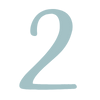
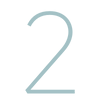
数字の画像を差し替えた

Changed region(s): [[0.18, 0.09, 0.78, 0.96]]

diff --git a/src/components/templates/Login.tsx b/src/components/templates/Login.tsx
@@ -109,7 +109,7 @@ function Login() {
       </section>
       <section>
         <h2 className="mt-10 mb-2 flex justify-center text-3xl font-bold">
-          かんたん！３ステップ
+          操作はこれだけ！
         </h2>
         <div className="m-auto max-w-5xl">
           <div className="md:grid md:grid-cols-3 md:justify-between">

diff --git a/src/components/atoms/Description.tsx b/src/components/atoms/Description.tsx
@@ -15,8 +15,8 @@ function Description({ position }: Props) {
         <Image
           src={`/step${position}.png`}
           alt={`使い方${position}番`}
-          width={50}
-          height={50}
+          width={60}
+          height={60}
         />
       </div>
       <Image
